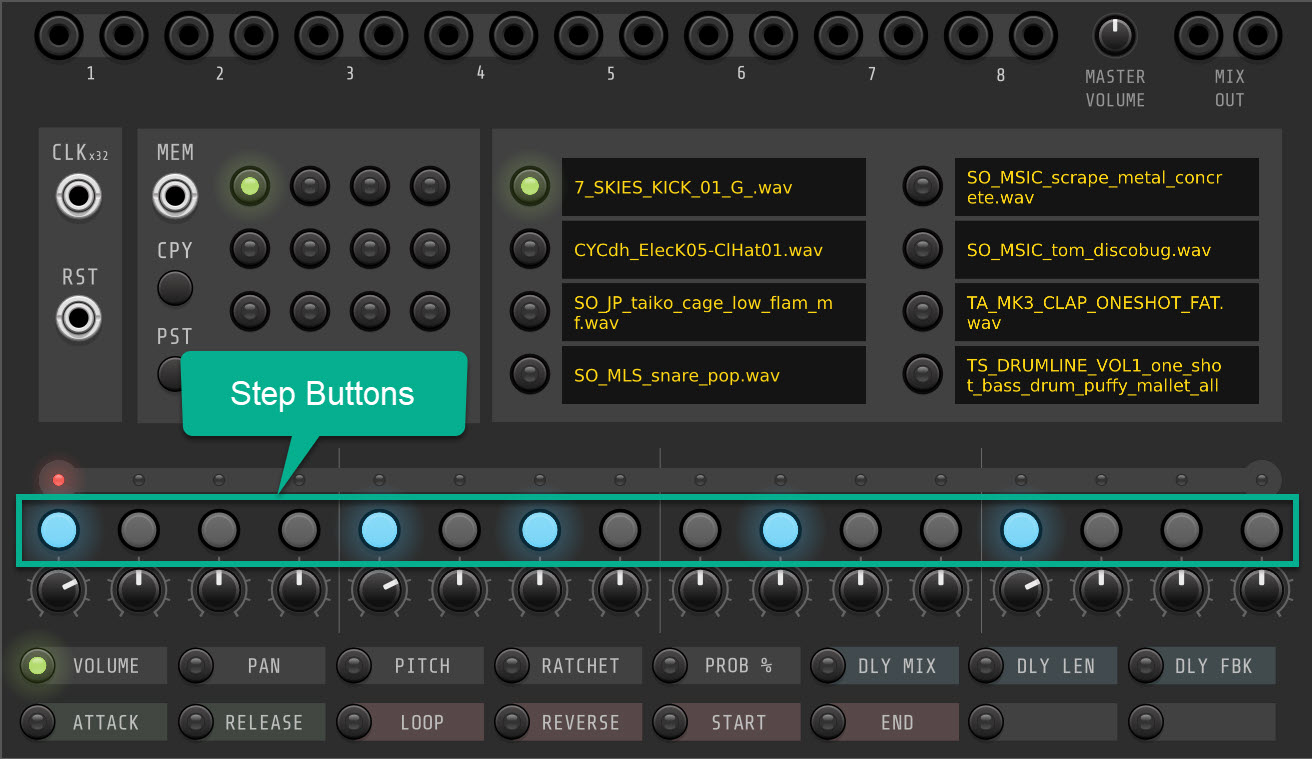
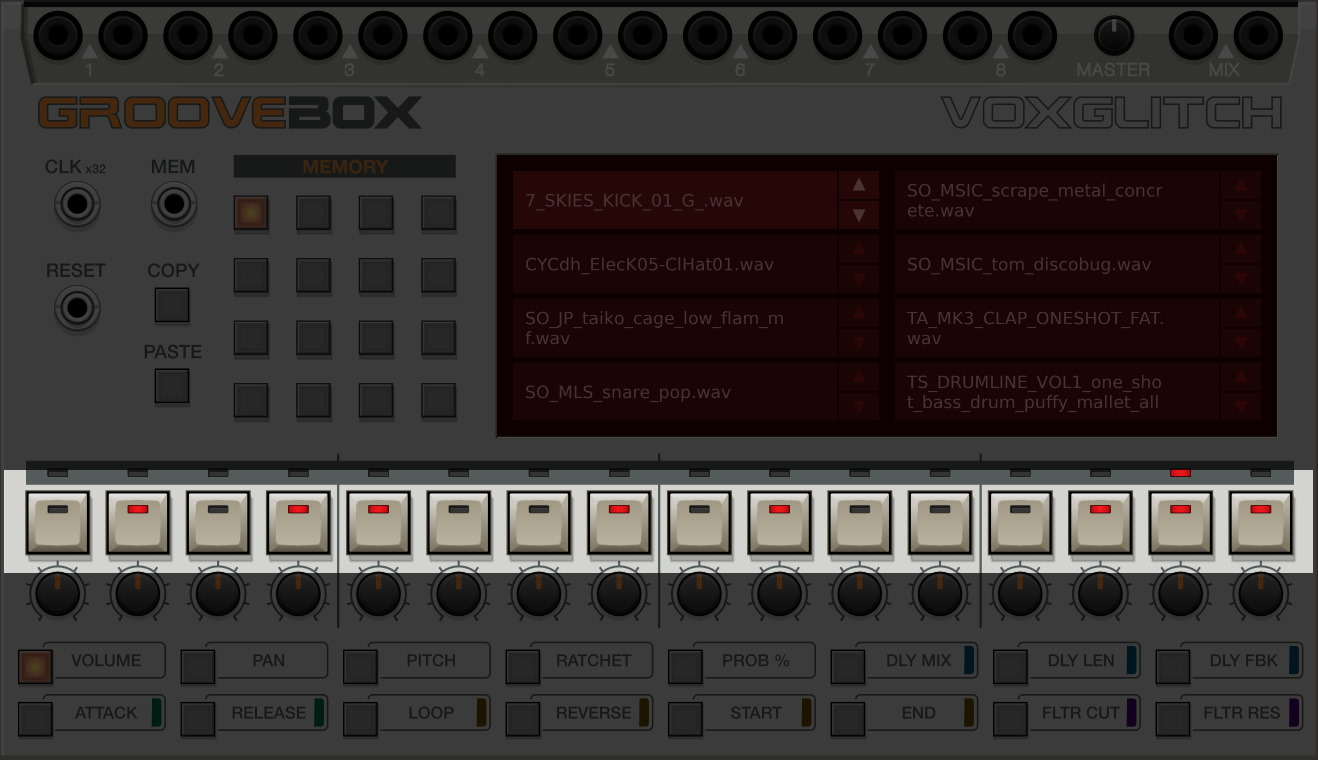
Mostly done with documentation updates

diff --git a/src/Common/Theme.hpp b/src/Common/Theme.hpp
@@ -44,8 +44,6 @@ struct Theme
 
     if(! json_root)
     {
-      //DEBUG("unable to load JSON file");
-      // DEBUG(config_file_path.c_str());
       return(false);
     }
 

diff --git a/docs/groovebox.md b/docs/groovebox.md
@@ -1,39 +1,42 @@
-## Groovebox
+## Voxglitch Groovebox
 
 ![GrooveBox](/docs/images/groovebox/groovebox.jpg)
+
+_Graphic Design by [Jim Allman](https://www.linkedin.com/in/jim-allman-399a72/)_
 
 The Voxglitch Groove Box is an 8-track, sample based drum machine with per-step parameter locks.  
 
 ### Tracks
 
-The Groove Box has 8 track slots.  Each track slot may contain a sample.  Pressing a track button will select it for editing.
 
-Tracks store:
+The Groove Box has 8 track slots.  Click on a track slot on the LCD screen to select the track for editing.
+
+Tracks are composed of:
 
 * Step button selections
-* Selected sample location on the hard drive.
+* Assigned samples
 * All parameter lock values
-* Track length
+* Step start and end positions
 
-![GrooveBoxTracks](/docs/images/groovebox/tracks.jpg)
 
 ### Samples
 
-Groove Box doesn't ship with built-in sounds.  It's up to the user to provide samples.  Samples should be .wav files, with a 44,100  or higher sample rate for best quality.
+The Groove Box doesn't ship with built-in sounds.  It's up to the user to provide samples.  Samples should be .wav files, with a 44,100  or higher sample rate for best quality.
 
 #### Loading Samples
 
-There are three ways of loading samples:
+There are multiple ways of loading samples:
 
-- Double clicking on a track's filename display screen (preferred way!)
-- Using the context-menu (right-click menu) to select individual samples (tedious)
-- Using the context-menu to select a folder containing samples (good for setting up preset "kits")
 
-Once a sample is loaded, you can over over the track label and scroll through other sounds in the same folder by holding SHIFT + CTRL while using your mouse wheel.
+- Double click on a track's filename to select a replacement sample
+- Right-click on a track's filename and select "Load Sample" from the context menu
+- Use the module's context-menu to select a folder containing samples (good for setting up preset "kits")
+
+Once a sample is loaded, you can use the up and down arrows displayed to the right of the sample to browse sounds in the same folder.
 
 ### Step Buttons
 
-The blue Step Buttons are used to program the rythm used for playback -- just like in a typical drum machine.
+The clackity-clack Step Buttons are used to program the rythm used for playback.
 
 ![GrooveBoxStepButtons](/docs/images/groovebox/step_buttons.jpg)
 
@@ -45,32 +48,35 @@ It's possible to copy all step data (including parameter lock settings) from one
 
 Here's how:
 
-* Hold down the shift key
-* While continuing to holding the shift key, double-click on the blue step button that you wish to copy.
-* Don’t lift up the shift yet! Keep it pressed!
-* While continuing to hold the shift key, click on the destination step(s). All step data will be copied to the destination steps.
-* Finally, release the shift key. This will return the module to normal operation.
+![GrooveBoxCopyStep](/docs/images/groovebox/copying_step_data.jpg)
 
-#### Shifting Patterns
 
-Sometimes it may be helpful to shift a pattern left or right.  There are two ways to
-do this:
+1. Right click on a source step button
+2. Select "Copy Step"
+3. Right click on a destination step button
+4. Select "Paste Step"
 
-In order to shift a single track's data left or right:
+At the moment, information can only be copied between steps in the same track.
 
-1. Hold down the __shift key__
-2. Click on one of the blue step buttons
-3. Drag left or right
 
-In order to shift all 8 of the tracks' data left or right:
+#### Shifting All Steps Left or Right
 
-1. Hold down the __shift & control keys__
-2. Click on one of the blue step buttons
-3. Drag left or right
+Sometimes it may be helpful to shift a pattern left or right.  Here's how:
+
+1. Right click on any step button
+2. Select either "Shift Steps Right" or "Shift Steps Left"
+
+#### Randomizing or Clearing All Steps
+
+Here's an easy to to randomize or clear all steps in a track:
+
+1. Right click on any step button
+2. Select either Randomize Steps or Clear Steps
+3. All steps for the selected track will either be randomized or cleared
 
 ### Changing Track Start and End
 
-This has changed recently! Changing the sequence start and end is now accomplished by dragging the sequence length indicator from the endpoints.  Click either the start or end location indicated in the screen capture below, then drag left or right.
+Changing the sequence start and end is done by dragging the sequence length indicator from the endpoints.  Click either the start or end location as indicated in the screen capture below, then drag left or right.
 
 ![GrooveBoxTracks](/docs/images/groovebox/change-start-and-end.jpg)
 
@@ -101,9 +107,6 @@ Basic Method:
 * To copy a memory slot, select the memory slot that you'd with to copy and click the CPY button
 * To past a memory slot, select the destination memory slot and click PST
 
-Sneaky Method:
-* To copy a memory slot, select the memory slot that you'd with to copy and click the CPY button
-* While holding the shift key, click on one or more memory slots to paste the copied memory.  This allows you to copy the currently selected memory slot without having to switch memory slots.
 
 ### Clock and Reset
 
